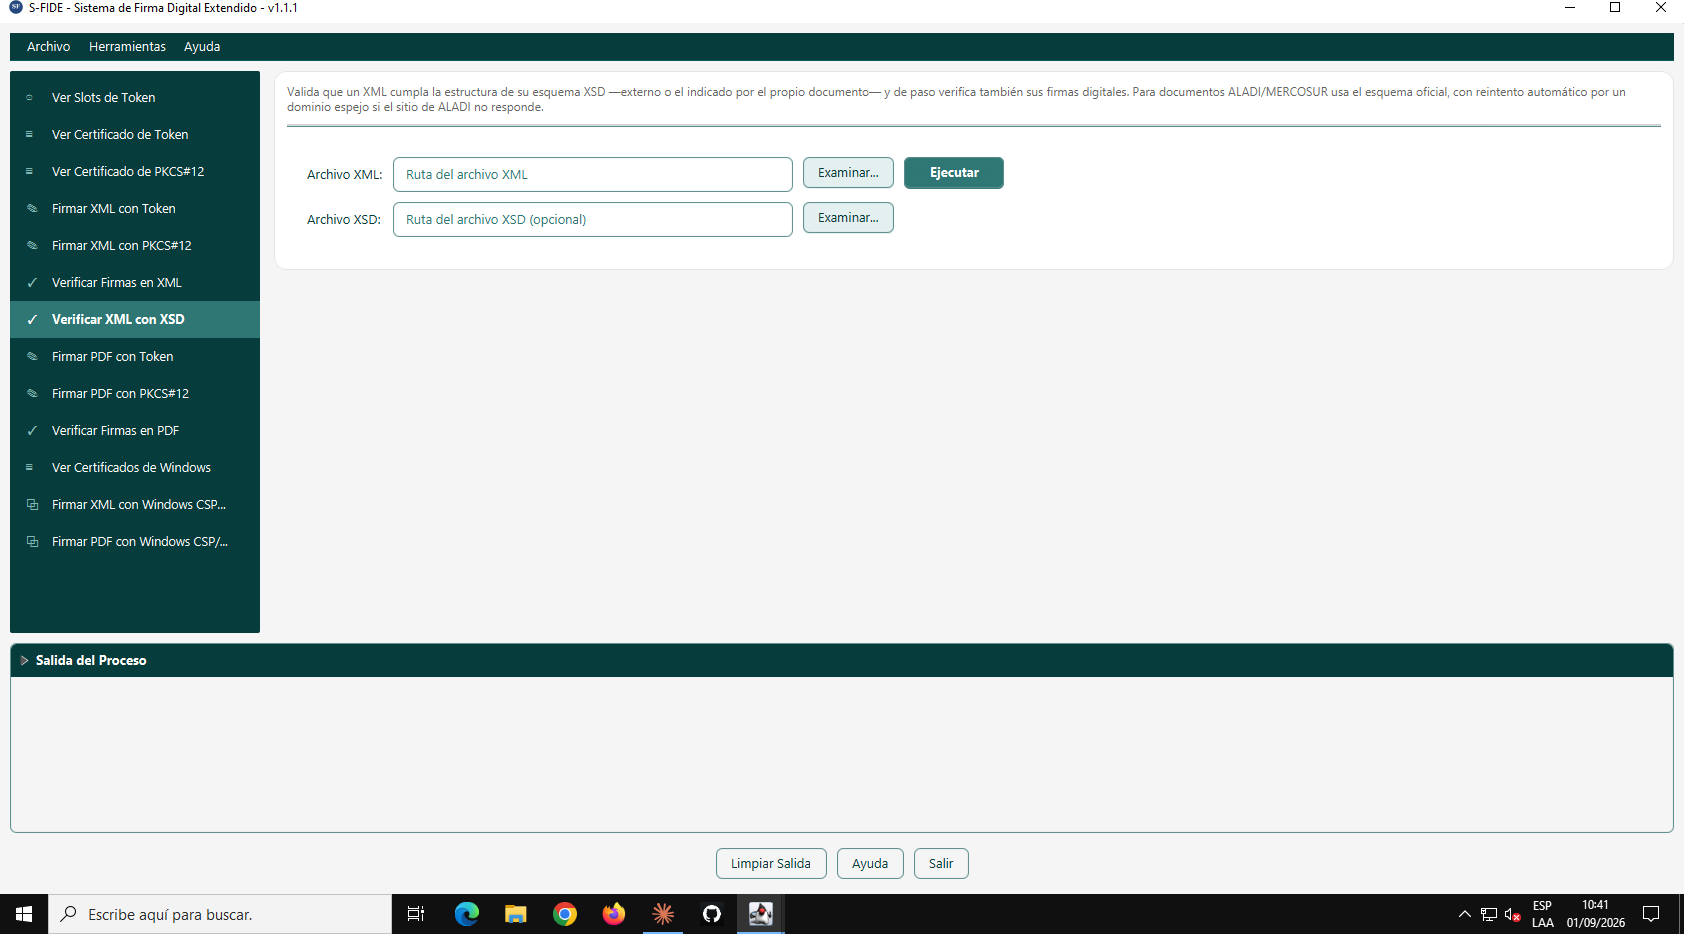
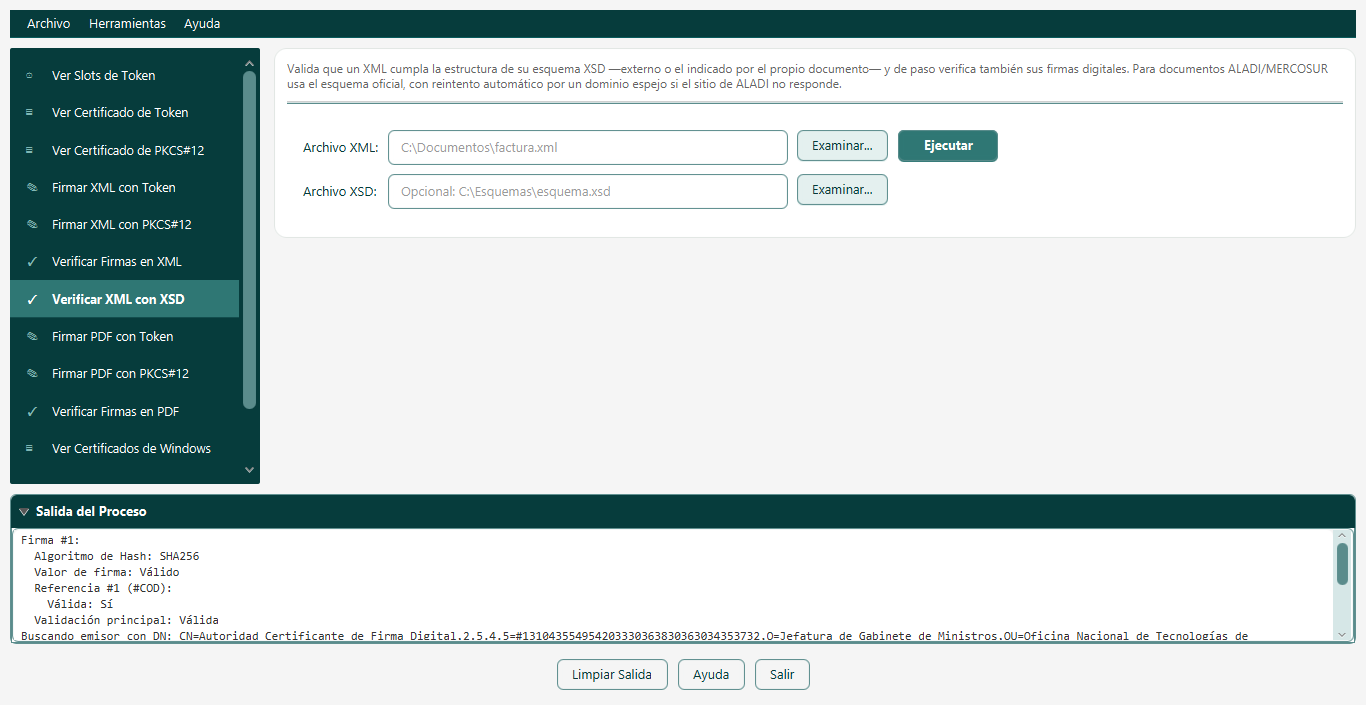
docs(manual-usuario): capturas reales de pantalla con token SafeNet 5110+ Plus L3
Reemplaza todas las capturas de la Guía de Usuario por pantallas reales
(hardware SafeNet conectado, certificado real, firma real de un COD y de
un PDF, verificación real). Agrega capturas para las solapas nuevas de
Ayuda "Documentación" y "Contacto" (con enlace a GitHub), y una nueva
sección "Acerca de" con su propia captura.

Changed region(s): [[0.0, 0.0, 1.0, 1.0]]

diff --git a/doc/manual-usuario-sfide-gui.html b/doc/manual-usuario-sfide-gui.html
@@ -601,11 +601,20 @@
 
       <h3>Documentación</h3>
       <p>Enlaces para abrir, con un clic, en el navegador web predeterminado del sistema (Windows, Linux o macOS), los documentos HTML de la carpeta <code>doc</code> de esta instalación: la Guía de Usuario que está leyendo y el Manual Técnico de Integración — cada uno con una breve descripción de su contenido. Más abajo, enlaces a los visualizadores externos de ALADI para Certificados de Origen (COD/CODEH) y Declaraciones Juradas de Origen (DJO/DJOEH).</p>
+      <figure class="shot">
+        <img src="img/manual-usuario/05_ayuda_documentacion.png" alt="Ventana de Ayuda, solapa Documentación">
+      </figure>
 
       <h3>Contacto</h3>
       <p>Datos de soporte técnico y de la empresa, incluyendo un enlace al sitio web de Grupo Sauken y otro a la página del proyecto en GitHub.</p>
       <figure class="shot">
-        <img src="img/manual-usuario/05_ayuda_contacto.png" alt="Ventana de Ayuda, solapa Contacto">
+        <img src="img/manual-usuario/06_ayuda_contacto.png" alt="Ventana de Ayuda, solapa Contacto">
+      </figure>
+
+      <h3>Acerca de</h3>
+      <p>Fuera de la ventana de Ayuda, el menú <strong>Ayuda → Acerca de</strong> abre un diálogo aparte con la descripción de S-FiDE, la versión instalada, los enlaces al sitio de Grupo Sauken, al repositorio en GitHub y a la página del proyecto en GitHub Pages, y la licencia (GNU GPL v2 o posterior).</p>
+      <figure class="shot">
+        <img src="img/manual-usuario/07_acerca_de.png" alt="Diálogo Acerca de">
       </figure>
     </section>
 
